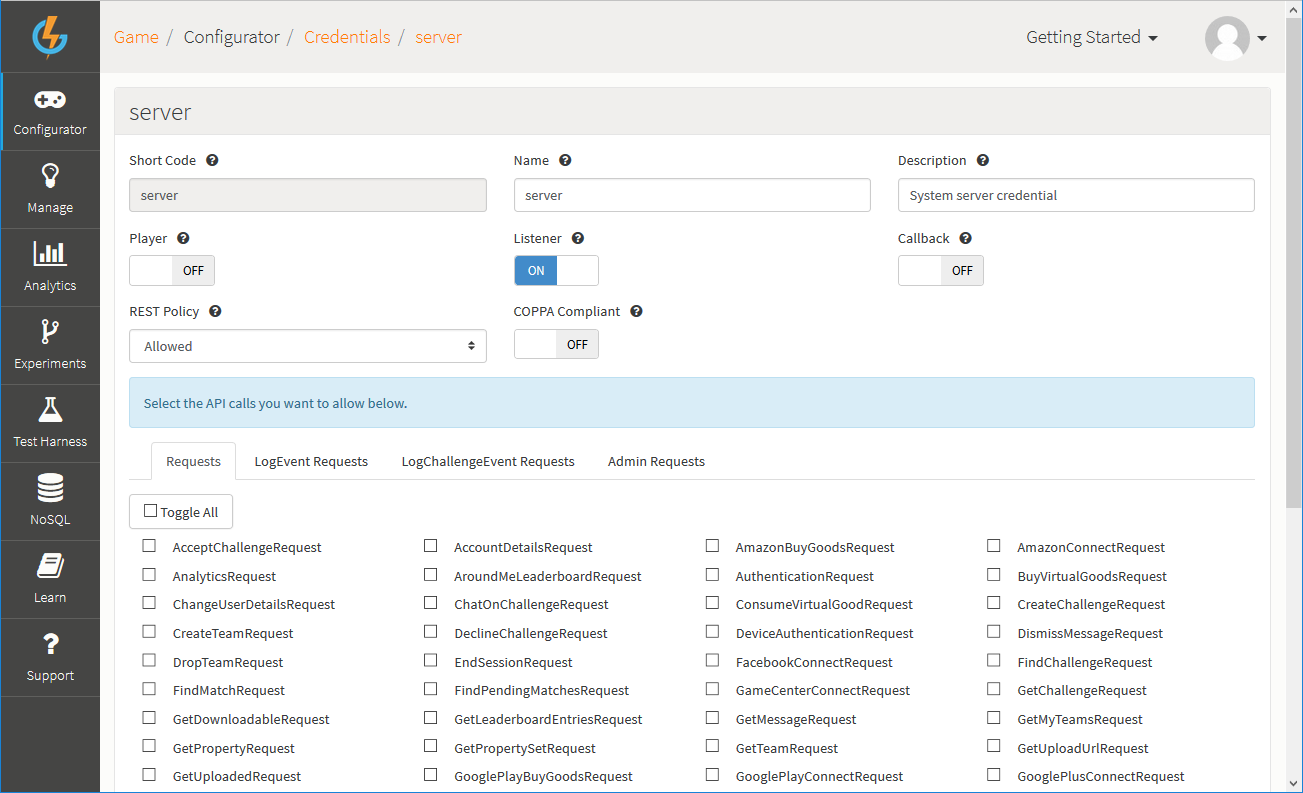
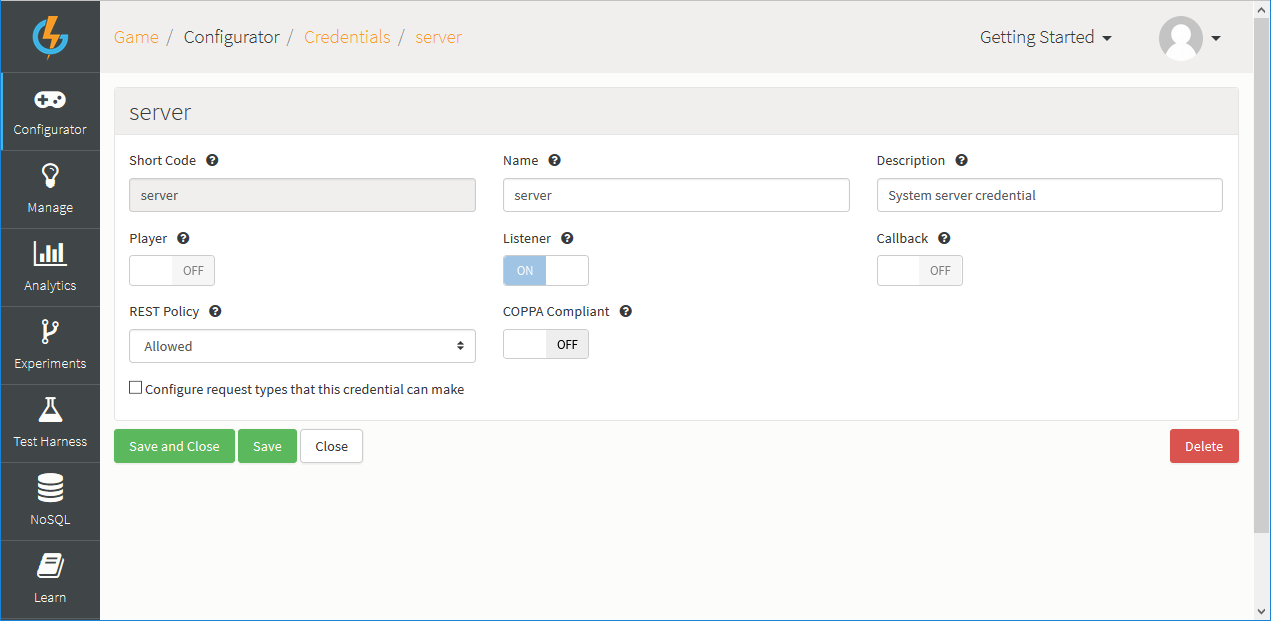
Spring 71 updates

diff --git a/MARKDOWN/Documentation/Configurator/Credentials.md b/MARKDOWN/Documentation/Configurator/Credentials.md
@@ -38,7 +38,7 @@ You can also configure Credentials for:
 When you create or edit a custom Credential there are three key settings you can use to determine the type of Credential and ensure the Credential suits your purposes:
 * *Player* - If you select this, it means that the Credential will be used against players. For example, you could use a Player Credential to deny a player access to the matchmaking requests without affecting their permissions to other requests available within the API platform
 * *Listener* - If you select this, it means that messages can be passed through to the user.
-* *CB* - If you select this, it means that the Credential will be used exclusively for Callback scripts.
+* *CB* - If you select this, it means that the Credential can be used for Callback scripts.
 
 There are certain rules applied to the combination of Credential types:
 * A Player Credential *MUST* also be a Listener type.
@@ -111,7 +111,20 @@ To edit a System Credential:
 
 *3.* Switch *COPPA Compliant* to *ON*, if you want the Credential to impose [COPPA compliance](#Enabling COPPA Compliance).
 
-*4.* Select any of the four request tabs and check the individual requests under each one for the Credentials you want to allow/disallow. In this example, the first Requests tab is selected and all requests on this tab are checked and therefore allowed.
+*4.* If you don't want to configure the requests that the Credential allows, don't select the *Configure request types* check box:
+* Leaving this unchecked means that the default settings for Credential requests is applied. The default settings for each requests tab are:
+  * *Requests* - All request are allowed.
+  * *LogEvent Requests* - All requests are allowed.
+  * *LogChallengeEvent Requests* - All requests are allowed.
+  * *Admin Requests* - No requests are allowed.
+
+*5.* If you want to configure which requests you want to allow for this Credential, select the *Configure request types* check box. The four requests tabs are shown:
+
+![](img/SecCred/16.png)
+* For the *Request*, *LogEvent Requests*, and *LogChallengeEvent Requests* tabs, all requests will be checked to allow those requests. You can work through these tabs and unselect the requests you don't want to allow for the Credential.
+* For the *Admin Requests* tab, none of the requests will be selected and you must select for any requests on this tab that you want to allow for the Credential.
+
+<q>**Important!** If you simply select the *Configure request types* check box and do not change any of the default settings on any of the four request tabs and perform a save, this will save the *current* default request settings for the Credential. However, if a new request type is added to the platform, that Credential will NOT automatically inherit the default setting for that new request - you'll have to edit the Credential and explicitly select for the setting you want.</q>
 
 *5.* Click to *Save and Close* your editing changes.
 
@@ -141,10 +154,20 @@ In this example, we've selected for a *Player/Listener* custom Credential.
 
 *5.* Switch *COPPA Compliant* to *ON*, if you want the Credential to impose COPPA compliance.
 
+*6.* If you don't want to configure the requests that the Credential allows, don't select the *Configure request types* check box:
+* Leaving this unchecked means that the default settings for Credential requests is applied. The default settings for each requests tab are:
+  * *Requests* - All request are allowed.
+  * *LogEvent Requests* - All requests are allowed.
+  * *LogChallengeEvent Requests* - All requests are allowed.
+  * *Admin Requests* - No requests are allowed.
 
-*6.* Under the *Requests*, *LogEventRequests*, and *LogChallengeRequests* tabs, check for the requests you want to allow for the Credential.
+*7.* If you want to configure which requests you want to allow for this Credential, select the *Configure request types* check box. The four requests tabs are shown:
 
-<q>**AdminRequests.** Remember, *AdminRequests* cannot be selected for a Player Credential!</q>
+![](img/SecCred/17.png)
+* For the *Request*, *LogEvent Requests*, and *LogChallengeEvent Requests* tabs, all requests will be checked to allow those requests. You can work through these tabs and unselect the requests you don't want to allow for the Credential.
+* For the *Admin Requests* tab, none of the requests will be selected and you must select for any requests on this tab that you want to allow for the Credential.
+
+<q>**Important!** If you simply select the *Configure request types* check box and do not change any of the default settings on any of the four request tabs and perform a save, this will save the *current* default request settings for the Credential. However, if a new request type is added to the platform, that Credential will NOT automatically inherit the default setting for that new request - you'll have to edit the Credential and explicitly select for the setting you want.</q>
 
 *7.* Click to *Save and Close* your new Credential.
 

diff --git a/MARKDOWN/Documentation/Configurator/Segments.md b/MARKDOWN/Documentation/Configurator/Segments.md
@@ -199,7 +199,7 @@ Here, we'll segment an Achievement using the two Segment Queries we built [above
 ![](img/Segments/20.png)
 * Here we've selected the *COUNTRY_SEG_QUERY_JP*. This means that any players assigned the Segment/Value pair: *COUNTRY_SEG/JP_COUNTRY_SEGVAL*, will be subject to the alternative values for this Achievement segment.  
 
-*8.* Click *Add Segment* again and add a second segment for the Achievement:  
+*8.* Click *Add Segment* again and add a second Segment for the Achievement:  
 
 ![](img/Segments/21.png)
 * Here we've selected the *COUNTRY_SEG_QUERY_PL*. This means that any players assigned the Segment/Value pair: *COUNTRY_SEG/PL_COUNTRY_SEGVAL*, will be subject to the alternative values for this Achievement segment.
